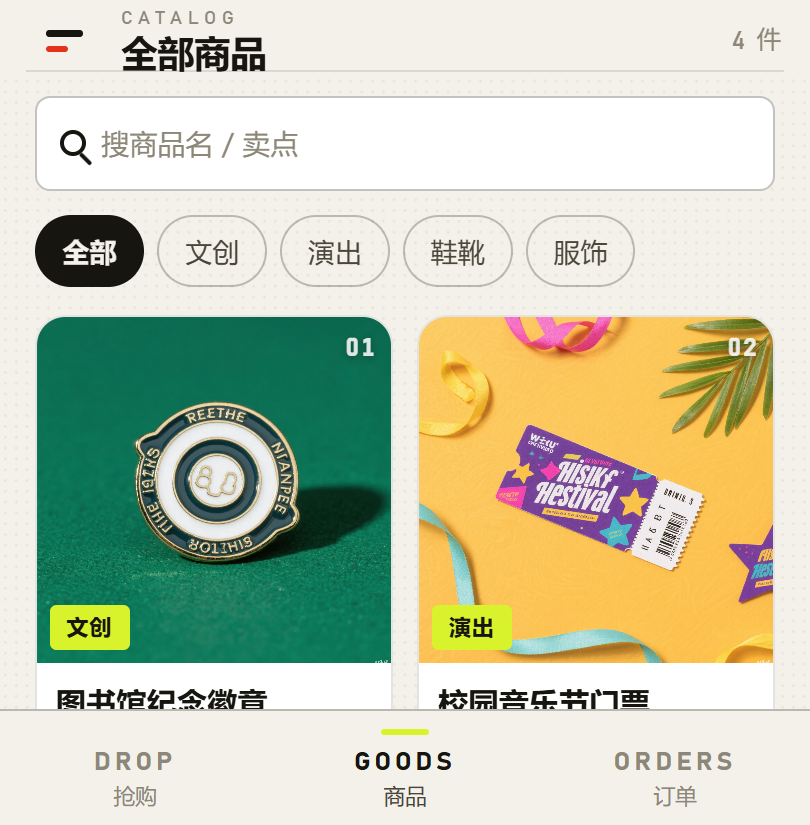
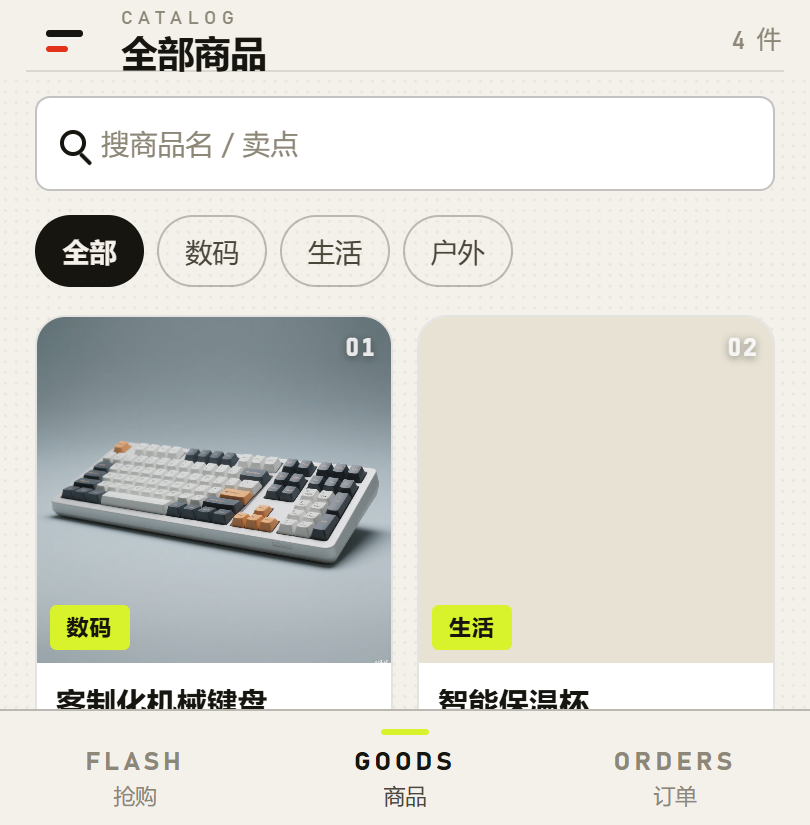
refactor: 项目更名为「限时抢购交易平台」，种子商品改为通用品类
- 展示文案：README、项目总结、管理后台标题与登录页、用户端 manifest / pages.json /
  首页导航与 Hero、登录页副标题、TabBar 首项 DROP → FLASH
- 种子数据：校园卫衣/运动鞋/音乐节门票/徽章 换成 便携露营灯、无线降噪耳机、
  智能保温杯、客制化机械键盘，分类改为 户外 / 数码 / 生活
- 管理后台表单占位文案同步改为通用商品示例
- 重新灌入演示数据并重拍 5 张界面截图
- 技术标识按约定保持不变：包名 com.seckill、库名 seckill、Redis key 前缀、服务名

diff --git a/seckill-admin/src/views/GoodsView.vue b/seckill-admin/src/views/GoodsView.vue
@@ -171,13 +171,13 @@ onMounted(load)
     <el-dialog v-model="dialogVisible" :title="dialogTitle" width="560px">
       <el-form ref="formRef" :model="form" :rules="rules" label-width="90px">
         <el-form-item label="商品名称" prop="name">
-          <el-input v-model="form.name" placeholder="例如：校园联名卫衣" />
+          <el-input v-model="form.name" placeholder="例如：便携露营灯" />
         </el-form-item>
         <el-form-item label="卖点标题">
-          <el-input v-model="form.title" placeholder="例如：校庆限定联名款" />
+          <el-input v-model="form.title" placeholder="例如：三档亮度 · IPX4 防水" />
         </el-form-item>
         <el-form-item label="分类">
-          <el-input v-model="form.category" placeholder="例如：服饰" />
+          <el-input v-model="form.category" placeholder="例如：户外" />
         </el-form-item>
         <el-form-item label="原价" prop="originPrice">
           <el-input-number v-model="form.originPrice" :min="0" :precision="2" :step="10" />

diff --git a/seckill-uniapp/src/pages/login/login.vue b/seckill-uniapp/src/pages/login/login.vue
@@ -20,7 +20,7 @@ const DEMO = { username: 'student01', password: '123456' }
 
 const headline = computed(() => (mode.value === 'login' ? '欢迎回来' : '创建账号'))
 const subtitle = computed(() =>
-  mode.value === 'login' ? '登录后即可参与限量抢购' : '注册成功会自动登录，马上就能抢'
+  mode.value === 'login' ? '登录后即可参与限时抢购' : '注册成功会自动登录，马上就能抢'
 )
 
 const canSubmit = computed(() => form.value.username.length >= 4 && form.value.password.length >= 6)
@@ -87,7 +87,7 @@ function goBack() {
     <view class="screen__body">
       <!-- 标题 -->
       <view class="hero rise">
-        <text class="overline">Campus Limited Drop</text>
+        <text class="overline">Flash Sale Platform</text>
         <text class="hero__title">{{ headline }}</text>
         <text class="hero__sub">{{ subtitle }}</text>
         <view class="hero__bar" />

diff --git a/seckill-uniapp/src/pages/index/index.vue b/seckill-uniapp/src/pages/index/index.vue
@@ -70,7 +70,7 @@ onPullDownRefresh(async () => {
 
 <template>
   <view class="screen screen--tabbed paper-grain">
-    <AppNavBar title="限量抢购" subtitle="Campus Drop">
+    <AppNavBar title="限时抢购" subtitle="Flash Sale">
       <view v-if="logged" class="nav-user" hover-class="nav-user--hover" @tap="goOrders">
         <text class="nav-user__name">{{ nickname }}</text>
         <view class="nav-user__dot" />
@@ -84,7 +84,7 @@ onPullDownRefresh(async () => {
       <!-- Hero：不放整块深色，只用超大数字 + 两段细线做版式骨架 -->
       <view class="hero rise">
         <view class="hero__top">
-          <text class="overline">Campus Drop / 校园限定发售</text>
+          <text class="overline">Flash Sale / 限时抢购</text>
           <view class="stamp hero__stamp">LIMITED</view>
         </view>
 

diff --git a/seckill-uniapp/src/components/TabBar.vue b/seckill-uniapp/src/components/TabBar.vue
@@ -2,7 +2,7 @@
 const props = defineProps<{ current: 'index' | 'goods' | 'order' }>()
 
 const items = [
-  { key: 'index', en: 'DROP', zh: '抢购', path: '/pages/index/index' },
+  { key: 'index', en: 'FLASH', zh: '抢购', path: '/pages/index/index' },
   { key: 'goods', en: 'GOODS', zh: '商品', path: '/pages/goods/list' },
   { key: 'order', en: 'ORDERS', zh: '订单', path: '/pages/order/my' }
 ] as const

diff --git a/seckill-admin/src/views/Login.vue b/seckill-admin/src/views/Login.vue
@@ -41,7 +41,7 @@ async function handleLogin() {
 <template>
   <div class="login-page">
     <el-card class="login-card">
-      <h2 class="title">校园限量抢购平台</h2>
+      <h2 class="title">限时抢购交易平台</h2>
       <p class="subtitle">管理后台</p>
       <el-form :model="form" label-position="top" @keyup.enter="handleLogin">
         <el-form-item label="用户名">

diff --git a/seckill-admin/src/layout/AdminLayout.vue b/seckill-admin/src/layout/AdminLayout.vue
@@ -20,7 +20,7 @@ async function handleLogout() {
 <template>
   <el-container class="layout">
     <el-aside width="200px" class="aside">
-      <div class="logo">限量抢购后台</div>
+      <div class="logo">限时抢购后台</div>
       <el-menu :default-active="activeMenu" router class="menu">
         <el-menu-item index="/goods">
           <el-icon><Goods /></el-icon>

diff --git a/seckill-admin/index.html b/seckill-admin/index.html
@@ -3,7 +3,7 @@
   <head>
     <meta charset="UTF-8" />
     <meta name="viewport" content="width=device-width, initial-scale=1.0" />
-    <title>校园限量抢购平台 - 管理后台</title>
+    <title>限时抢购交易平台 - 管理后台</title>
   </head>
   <body>
     <div id="app"></div>

diff --git a/seckill-uniapp/index.html b/seckill-uniapp/index.html
@@ -13,7 +13,7 @@
           '" />'
       )
     </script>
-    <title>校园限量抢购</title>
+    <title>限时抢购</title>
   </head>
   <body>
     <div id="app"><!--app-html--></div>

diff --git a/seckill-backend/src/main/java/com/seckill/SeckillApplication.java b/seckill-backend/src/main/java/com/seckill/SeckillApplication.java
@@ -7,7 +7,7 @@ import org.springframework.boot.autoconfigure.SpringBootApplication;
 import org.springframework.scheduling.annotation.EnableScheduling;
 
 /**
- * 校园限量抢购平台 - 后端启动类
+ * 限时抢购交易平台 - 后端启动类
  */
 @SpringBootApplication
 @EnableScheduling

diff --git a/README.md b/README.md
@@ -1,8 +1,8 @@
-# 校园限量抢购平台
+# 限时抢购交易平台
 
 [![CI](https://github.com/MTWWZ/seckill-platform/actions/workflows/ci.yml/badge.svg)](https://github.com/MTWWZ/seckill-platform/actions/workflows/ci.yml)
 
-一个完整的校园限定商品秒杀系统：**Spring Boot 后端 + Vue3 管理后台 + uni-app 用户端**。
+一个完整的限时抢购（Flash Sale）交易系统：**Spring Boot 后端 + Vue3 管理后台 + uni-app 用户端**。
 
 核心要解决的问题是「高并发下的不超卖」：库存扣减放在 Redis 用 Lua 原子完成，订单落库交给 RabbitMQ 异步削峰，未支付订单到期自动取消并回补库存。
 

diff --git a/docs/project-summary.md b/docs/project-summary.md
@@ -1,6 +1,6 @@
-# 校园限量抢购平台 · 项目总结
+# 限时抢购交易平台 · 项目总结
 
-> 一句话：面向校园限量商品的秒杀系统，覆盖「用户抢购 → 异步下单 → 支付 / 超时关单」完整闭环，配套管理后台、用户端小程序、监控与工程化设施。
+> 一句话：面向限时抢购场景的交易系统，覆盖「用户抢购 → 异步下单 → 支付 / 超时关单」完整闭环，配套管理后台、用户端小程序、监控与工程化设施。
 
 ---
 
